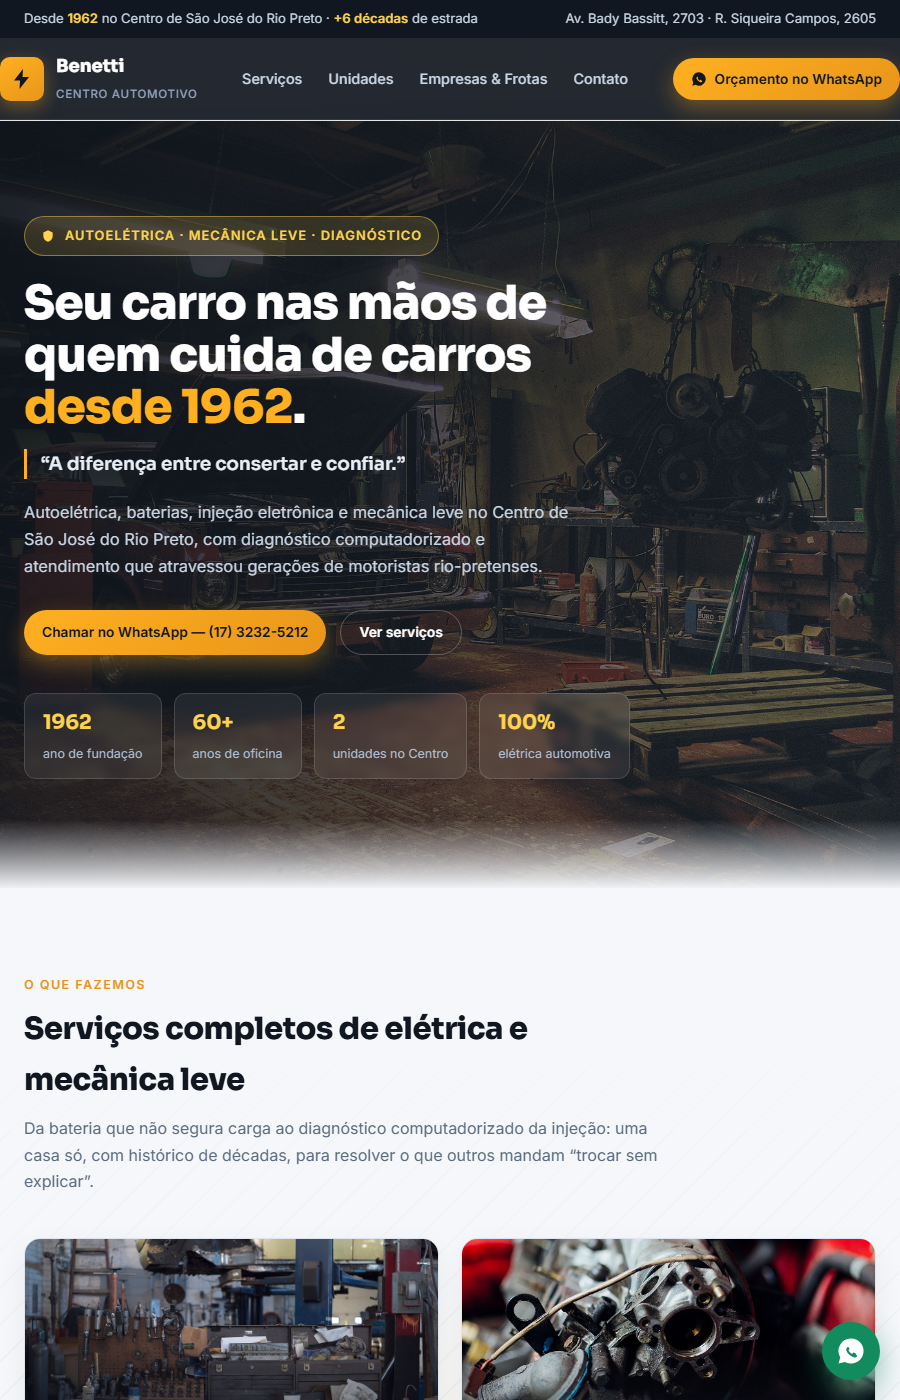
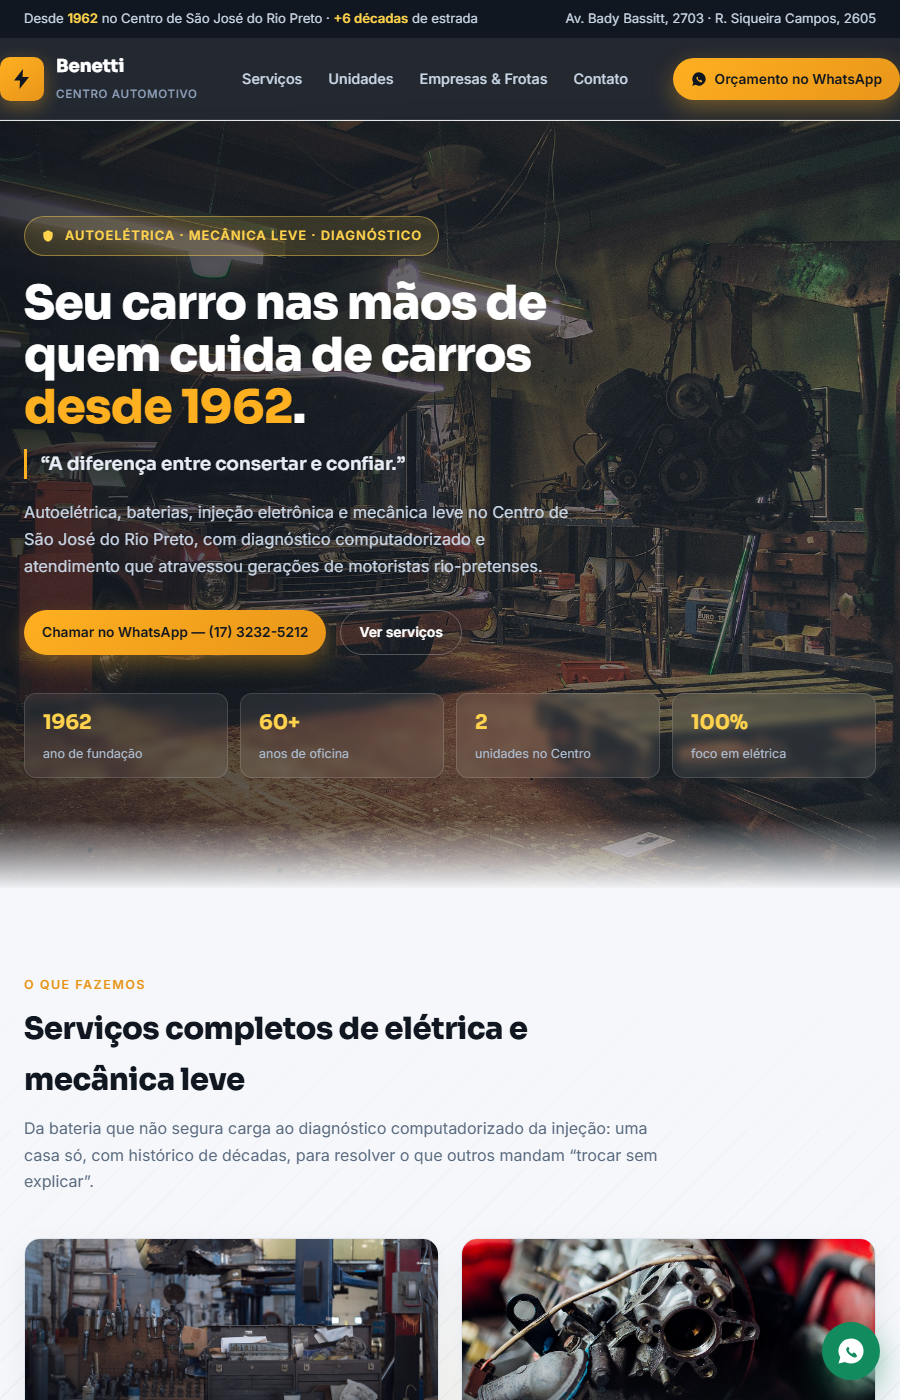
protos: publica benetti,jardim-dos-pets,pe-tattoo (gate R5: 4/10 8/10 8/10 )

diff --git a/p/jardim-dos-pets/index.html b/p/jardim-dos-pets/index.html
@@ -59,6 +59,10 @@ header.site{position:sticky;top:0;z-index:50;background:rgba(30,57,50,.93);backd
 .menu{display:flex;gap:24px}
 .menu a{color:#d5e3d8;font-size:.9rem;font-weight:500;transition:color .2s}
 .menu a:hover{color:#f4e9c8}
+.mnav{display:none;gap:10px;overflow-x:auto;scrollbar-width:none;padding:10px 24px;background:rgba(30,57,50,.97);border-bottom:1px solid rgba(255,255,255,.08)}
+.mnav::-webkit-scrollbar{display:none}
+.mnav a{flex:none;color:#d5e3d8;font-size:.82rem;font-weight:600;padding:7px 14px;border:1px solid rgba(255,255,255,.16);border-radius:999px;white-space:nowrap}
+.mnav a:active{background:rgba(201,164,76,.2)}
 .pill{display:inline-flex;align-items:center;gap:9px;border-radius:999px;font-weight:600;font-size:.88rem;padding:11px 20px;transition:transform .15s,box-shadow .15s}
 .pill:hover{transform:translateY(-1px)}
 .pill.gold{background:linear-gradient(145deg,var(--gold),var(--gold2));color:#241c07;box-shadow:0 8px 22px rgba(176,141,53,.38)}
@@ -107,7 +111,8 @@ section{padding:84px 0}
 /* memory cards */
 .memgrid{display:grid;grid-template-columns:repeat(auto-fit,minmax(250px,1fr));gap:20px}
 .mem{position:relative;border-radius:16px;overflow:hidden;min-height:300px;display:flex;align-items:flex-end;box-shadow:0 14px 34px rgba(35,50,40,.14)}
-.mem .bgimg{position:absolute;inset:0;background-position:center;background-size:cover;transition:transform .4s}
+.mem .bgimg{position:absolute;inset:0;background-position:center 22%;background-size:cover;transition:transform .4s}
+.mem .bgimg.portrait{background-position:center 30%}
 .mem:hover .bgimg{transform:scale(1.045)}
 .mem::after{content:"";position:absolute;inset:0;background:linear-gradient(180deg,transparent 38%,rgba(15,26,22,.86))}
 .mem .cap{position:relative;z-index:2;padding:22px;color:#f2efe6}
@@ -154,6 +159,7 @@ footer .proto-note{background:rgba(201,164,76,.12);border:1px solid rgba(201,164
 
 @media (max-width:880px){
   .menu{display:none}
+  .mnav{display:flex}
   .garden .cols{grid-template-columns:1fr}
   footer .grid{grid-template-columns:1fr}
 }
@@ -182,6 +188,14 @@ footer .proto-note{background:rgba(201,164,76,.12);border:1px solid rgba(201,164
       24h — (17) 99627-8508
     </a>
   </div>
+  <nav class="mnav" aria-label="Navegação mobile">
+      <a href="#servicos">Serviços</a>
+      <a href="#jardim">O Jardim</a>
+      <a href="#homenagens">Homenagens</a>
+      <a href="#planos">Planos</a>
+      <a href="#duvidas">Dúvidas</a>
+      <a href="https://wa.me/5517996278508?text=Ol%C3%A1%2C%20preciso%20de%20orienta%C3%A7%C3%A3o%20sobre%20meu%20pet" target="_blank" rel="noopener">WhatsApp 24h</a>
+    </nav>
 </header>
 
 <main id="topo">
@@ -263,10 +277,10 @@ footer .proto-note{background:rgba(201,164,76,.12);border:1px solid rgba(201,164
         </div>
       </div>
       <div class="imgbox">
-        <img src="https://upload.wikimedia.org/wikipedia/commons/thumb/b/b4/Avenue_path_Avenue_bench_Capel_Manor_Enfield_London_England.jpg/1280px-Avenue_path_Avenue_bench_Capel_Manor_Enfield_London_England.jpg" alt="Alameda arborizada de jardim com banco sob a luz do fim de tarde — imagem ilustrativa livre de banco de imagens" loading="lazy">
+        <img src="https://upload.wikimedia.org/wikipedia/commons/thumb/b/b4/Avenue_path_Avenue_bench_Capel_Manor_Enfield_London_England.jpg/500px-Avenue_path_Avenue_bench_Capel_Manor_Enfield_London_England.jpg" alt="Alameda arborizada de jardim com banco sob a luz do fim de tarde — imagem ilustrativa livre de banco de imagens" loading="lazy">
       </div>
     </div>
-    <p style="margin-top:22px;font-size:.76rem;color:#7e937f">Imagens meramente ilustrativas (banco de imagens livre — Wikimedia Commons / Unsplash), sem vínculo com as instalações reais do Jardim dos Pets.</p>
+    <p style="margin-top:22px;font-size:.78rem;color:#b7cab9">Imagens meramente ilustrativas (banco de imagens livre — Wikimedia Commons / Unsplash), sem vínculo com as instalações reais do Jardim dos Pets.</p>
   </div>
 </section>
 
@@ -279,15 +293,15 @@ footer .proto-note{background:rgba(201,164,76,.12);border:1px solid rgba(201,164
     </div>
     <div class="memgrid">
       <div class="mem">
-        <div class="bgimg" style="background-image:url('https://upload.wikimedia.org/wikipedia/commons/thumb/2/28/Grave_of_dog_Veera.jpg/1280px-Grave_of_dog_Veera.jpg')" role="img" aria-label="Memorial pet com coração de metal, anjinho de cerâmica e roseiras em vasos sobre o túmulo"></div>
+        <div class="bgimg" style="background-image:url('https://upload.wikimedia.org/wikipedia/commons/thumb/2/28/Grave_of_dog_Veera.jpg/500px-Grave_of_dog_Veera.jpg')" role="img" aria-label="Memorial pet com coração de metal, anjinho de cerâmica e roseiras em vasos sobre o túmulo"></div>
         <div class="cap"><b>Túmulos cuidados</b><span>Florações vivas e marcadores personalizados mantidos pela família e pelo jardim.</span></div>
       </div>
       <div class="mem">
-        <div class="bgimg" style="background-image:url('https://upload.wikimedia.org/wikipedia/commons/thumb/1/13/Brownie_the_Town_Dog_Grave_and_Memorial_in_Daytona_Beach_Florida_03.jpg/1280px-Brownie_the_Town_Dog_Grave_and_Memorial_in_Daytona_Beach_Florida_03.jpg')" role="img" aria-label="Placa memorial pública de um cachorro querido, com oferendas deixadas no local"></div>
+        <div class="bgimg" style="background-image:url('https://upload.wikimedia.org/wikipedia/commons/thumb/1/13/Brownie_the_Town_Dog_Grave_and_Memorial_in_Daytona_Beach_Florida_03.jpg/500px-Brownie_the_Town_Dog_Grave_and_Memorial_in_Daytona_Beach_Florida_03.jpg')" role="img" aria-label="Placa memorial pública de um cachorro querido, com oferendas deixadas no local"></div>
         <div class="cap"><b>Placas e memoriais</b><span>A homenagem que permanece legível para quem voltou: nome, datas e a história do pet.</span></div>
       </div>
       <div class="mem">
-        <div class="bgimg" style="background-image:url('https://upload.wikimedia.org/wikipedia/commons/thumb/a/ad/Dog_holding_a_bouquet_in_its_mouth._-front-_%289722807161%29.jpg/1280px-Dog_holding_a_bouquet_in_its_mouth._-front-_%289722807161%29.jpg')" role="img" aria-label="Cachorro segurando um buquê de flores na boca"></div>
+        <div class="bgimg" style="background-image:url('https://upload.wikimedia.org/wikipedia/commons/thumb/a/ad/Dog_holding_a_bouquet_in_its_mouth._-front-_%289722807161%29.jpg/500px-Dog_holding_a_bouquet_in_its_mouth._-front-_%289722807161%29.jpg')" role="img" aria-label="Cachorro segurando um buquê de flores na boca"></div>
         <div class="cap"><b>Lembranças</b><span>Presentes do jardim: itens de recordação para levar um pouco dele para casa.</span></div>
       </div>
       <div class="mem">

diff --git a/p/benetti/index.html b/p/benetti/index.html
@@ -74,7 +74,7 @@ header.site{position:sticky;top:0;z-index:50;background:rgba(17,23,32,.92);backd
 
 /* hero */
 .hero{position:relative;color:#fff;background:
- linear-gradient(100deg, rgba(13,18,26,.93) 0%, rgba(13,18,26,.72) 46%, rgba(13,18,26,.42) 100%),
+ linear-gradient(100deg, rgba(13,18,26,.80) 0%, rgba(13,18,26,.58) 46%, rgba(13,18,26,.38) 100%),
  url("https://upload.wikimedia.org/wikipedia/commons/thumb/a/af/Car_repair_shop.jpg/1920px-Car_repair_shop.jpg") center 30%/cover no-repeat;
  padding:96px 0 110px}
 .hero::after{content:"";position:absolute;left:0;right:0;bottom:-2px;height:70px;background:linear-gradient(180deg,transparent,var(--paper))}
@@ -84,7 +84,7 @@ header.site{position:sticky;top:0;z-index:50;background:rgba(17,23,32,.92);backd
 .hero .slogan{font-family:'Sora';font-size:1.15rem;font-weight:600;color:#e8eef6;border-left:3px solid var(--amber);padding-left:14px;margin:6px 0 20px}
 .hero p.lead{max-width:560px;color:#c9d6e6;font-size:1.02rem;margin-bottom:30px}
 .hero .btns{display:flex;gap:14px;flex-wrap:wrap}
-.hero .facts{display:flex;gap:12px;flex-wrap:wrap;margin-top:38px}
+.hero .facts{display:grid;grid-template-columns:repeat(4,minmax(0,1fr));gap:12px;margin-top:38px}
 .fact{background:rgba(255,255,255,.07);border:1px solid rgba(255,255,255,.14);border-radius:12px;padding:12px 18px;backdrop-filter:blur(4px)}
 .fact b{display:block;font-family:'Sora';font-size:1.25rem;color:var(--voltage)}
 .fact span{font-size:.78rem;color:#aebfd4}
@@ -212,7 +212,7 @@ footer .proto-note{background:rgba(255,176,32,.10);border:1px solid rgba(255,176
       <div class="fact"><b>1962</b><span>ano de fundação</span></div>
       <div class="fact"><b>60+</b><span>anos de oficina</span></div>
       <div class="fact"><b>2</b><span>unidades no Centro</span></div>
-      <div class="fact"><b>100%</b><span>elétrica automotiva</span></div>
+      <div class="fact"><b>100%</b><span>foco em elétrica</span></div>
     </div>
   </div>
 </section>
@@ -261,7 +261,7 @@ footer .proto-note{background:rgba(255,176,32,.10);border:1px solid rgba(255,176
         </div>
       </div>
       <div class="card">
-        <div class="ph" style="background-image:url('https://upload.wikimedia.org/wikipedia/commons/thumb/4/4a/Mercedes_Sprinter_319_CDi.jpg/1920px-Mercedes_Sprinter_319_CDi.jpg')" role="img" aria-label="Van comercial leve de trabalho em frota"></div>
+        <div class="ph" style="background-image:url('https://upload.wikimedia.org/wikipedia/commons/0/04/2008_Fiat_Fiorino_Cargo.jpg')" role="img" aria-label="Van de carga branca de trabalho em frota"></div>
         <div class="bd">
           <h3><span class="ico"><svg width="18" height="18" viewBox="0 0 24 24" fill="none" stroke="#8a5c10" stroke-width="2" stroke-linecap="round"><path d="M4 16V7a2 2 0 0 1 2-2h8v11M4 16h2m12 0h2M8 20a2 2 0 1 0 0-4 2 2 0 0 0 0 4zm8 0a2 2 0 1 0 0-4 2 2 0 0 0 0 4zM14 9h4l2 4v3h-6"/></svg></span>Empresas e frotistas</h3>
           <p>Manutenção programada de frota com prioridade de agenda e histórico por veículo: menos carro parado, mais estrada rodando.</p>

diff --git a/p/pe-tattoo/index.html b/p/pe-tattoo/index.html
@@ -63,6 +63,10 @@ header{position:sticky;top:0;z-index:60;background:rgba(16,20,24,.92);backdrop-f
 nav{display:flex;gap:26px;font-size:.9rem;font-weight:500}
 nav a{color:#cfd8dd;transition:color .2s}
 nav a:hover{color:var(--sage)}
+.mnav{display:none;gap:10px;overflow-x:auto;scrollbar-width:none;padding:10px 24px;background:rgba(16,20,24,.96);border-bottom:1px solid rgba(143,174,148,.2)}
+.mnav::-webkit-scrollbar{display:none}
+.mnav a{flex:none;color:#cfd8dd;font-size:.82rem;font-weight:600;padding:7px 14px;border:1px solid rgba(143,174,148,.35);border-radius:999px;white-space:nowrap}
+.mnav a:active{background:rgba(143,174,148,.18)}
 .cta{display:inline-flex;align-items:center;gap:9px;background:var(--sage);color:var(--ink);font-weight:700;font-size:.92rem;padding:11px 20px;border-radius:999px;transition:transform .18s, background .18s;white-space:nowrap}
 .cta:hover{transform:translateY(-2px);background:#a6c6ab}
 .cta svg{width:17px;height:17px}
@@ -180,6 +184,12 @@ footer{background:var(--ink);color:#9aa6af;padding:56px 0 40px;font-size:.9rem}
       Pedir orçamento
     </a>
   </div>
+  <nav class="mnav" aria-label="Navegação mobile">
+      <a href="#trabalhos">Trabalhos</a>
+      <a href="#processo">Processo</a>
+      <a href="#estudio">Estúdio</a>
+      <a href="#duvidas">Dúvidas</a>
+    </nav>
 </header>
 
 <main id="topo">
